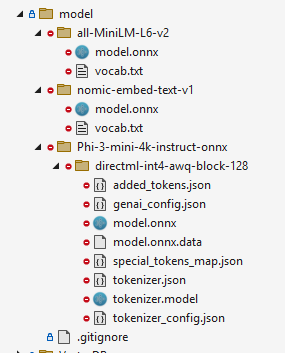
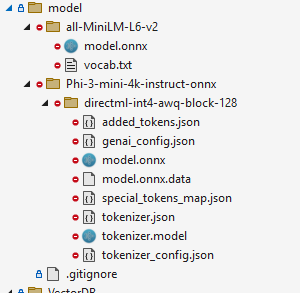
updated readme

Changed region(s): [[0.0281, 0.0, 0.8702, 1.0]]

diff --git a/README.md b/README.md
@@ -1,11 +1,10 @@
 To build and run the project, you will also need to make sure to download the models and vocab files from HuggingFace.
 
-We are currently using three models:
+We are currently using these models:
 
 * [Phi3](https://huggingface.co/microsoft/Phi-3-mini-4k-instruct-onnx)
 * [optimum/all-MiniLM-L6-v2](https://huggingface.co/optimum/all-MiniLM-L6-v2)
-* [nomic-ai/nomic-embed-text-v1](https://huggingface.co/nomic-ai/nomic-embed-text-v1/tree/main) - we use the `model_quantized.onnx` - renamed to `model.onnx`
 
-Place the models in the model directory as ilustrated by this screenshot
+Place the models in the model directory as illustrated by this screenshot
 
 ![alt text](image.png)
